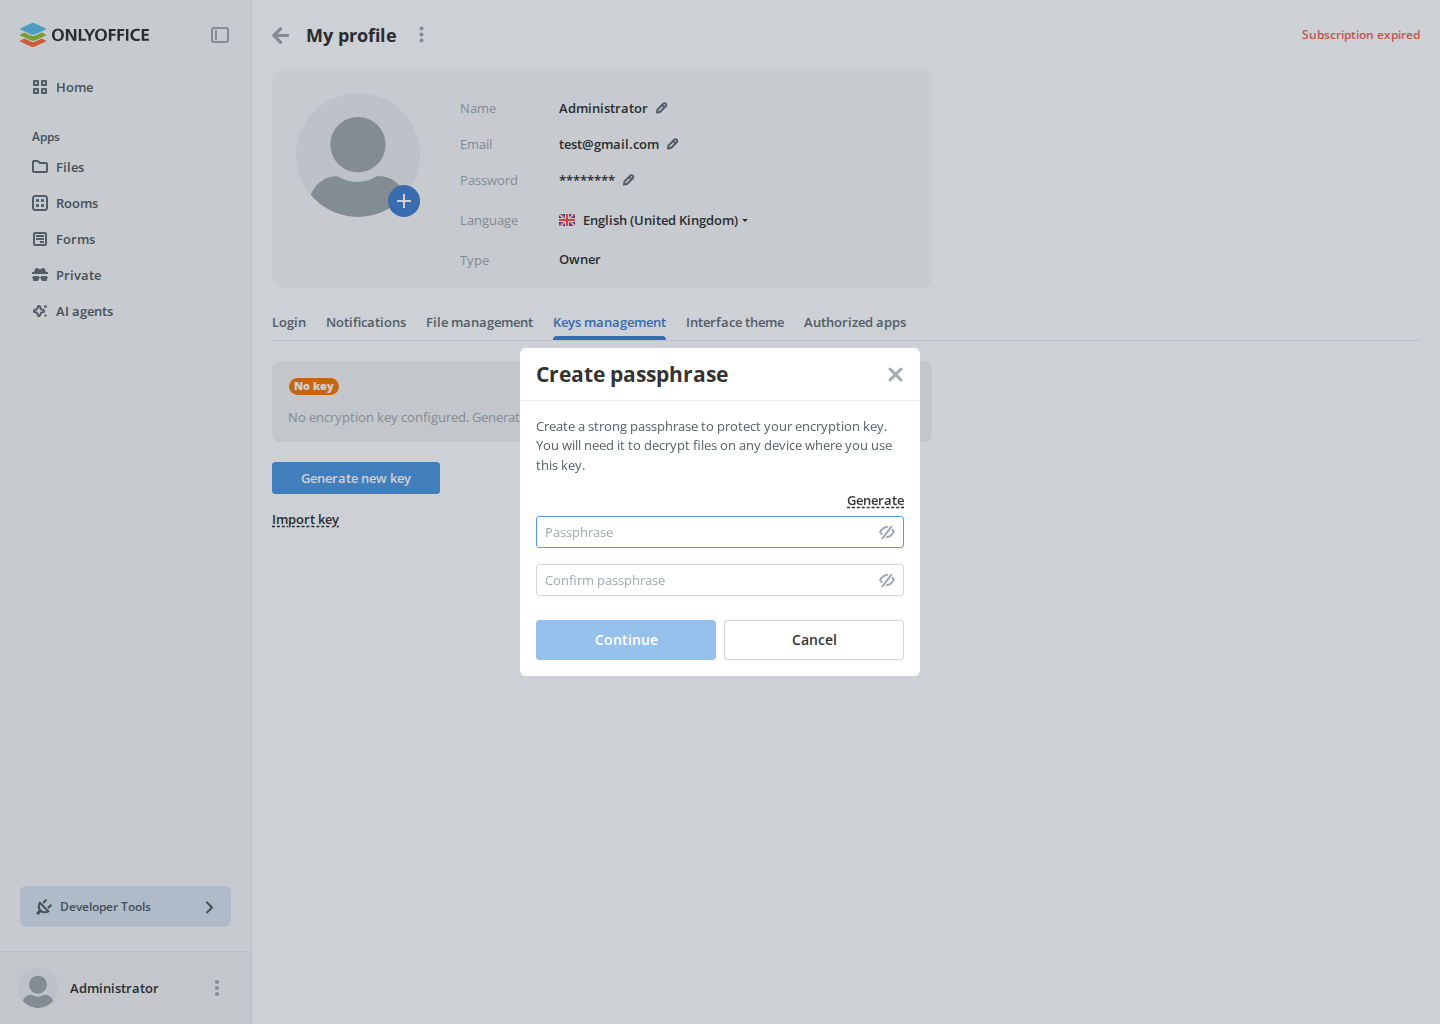
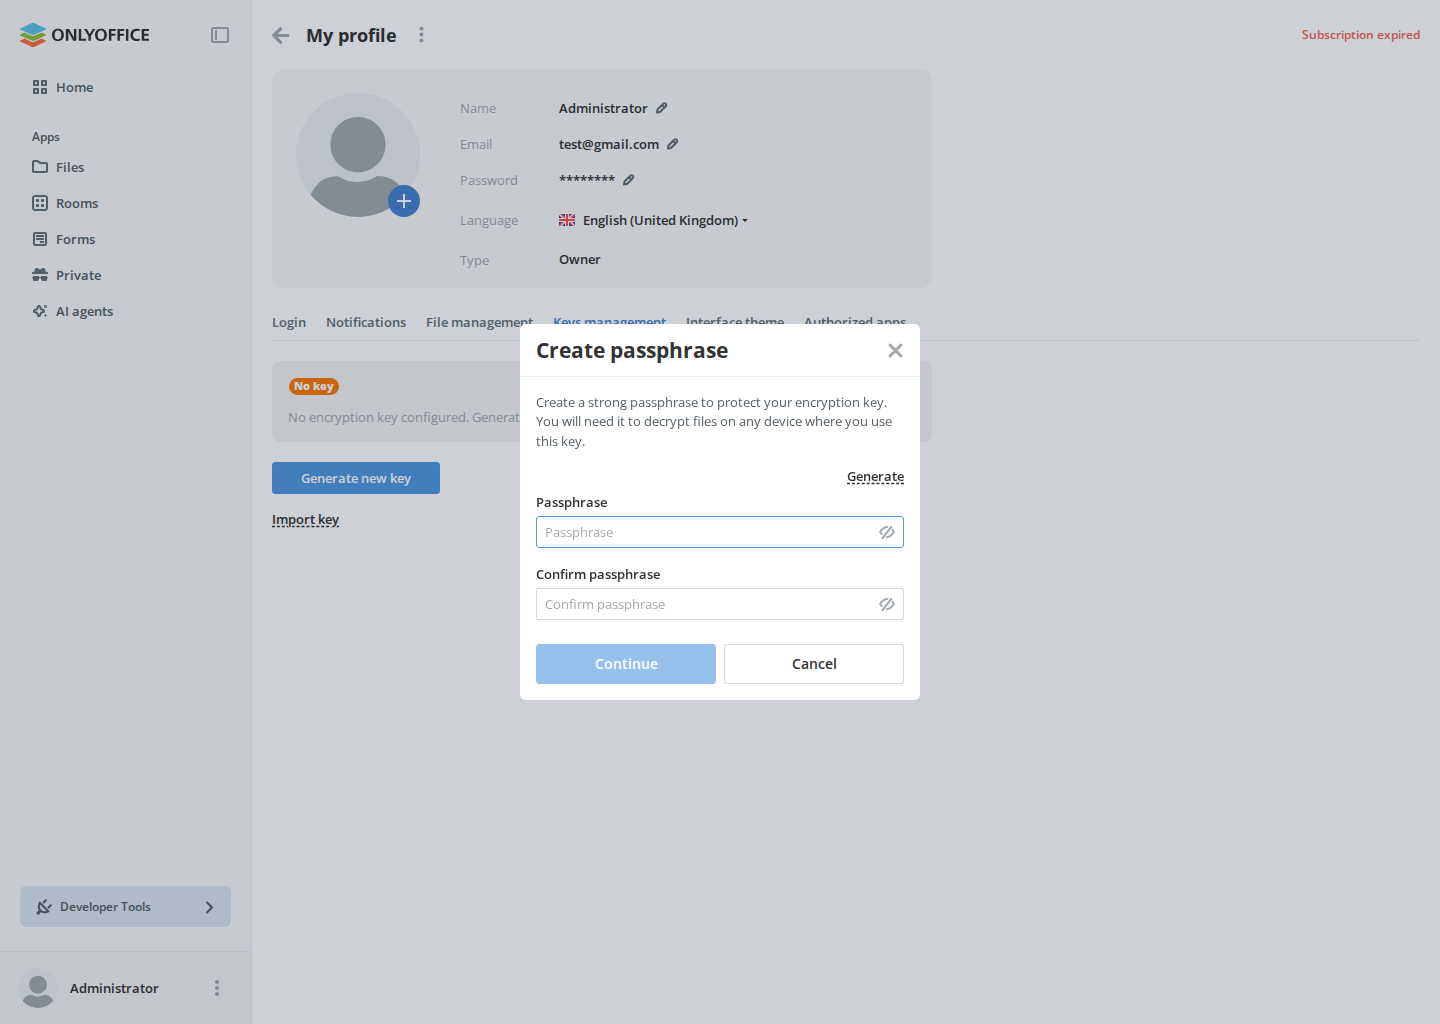
E2E: Private rooms: locate the passphrase fields by their labels
The keys-management, key-flow and TOFU specs and the encryption fixture
find the passphrase, confirmation and passphrase-change fields with
getByLabel on their visible labels instead of input[name] and id
selectors. The two passphrase-create baselines are re-recorded in the
container, since the labels changed the dialog's layout. Run in
tests-dev: 19 passed.

OpenSpec: private-rooms-dialog-keyboard-and-focus 3.4

Changed region(s): [[0.3438, 0.3125, 0.6562, 0.5], [0.3438, 0.5312, 0.6562, 0.6875], [0.5938, 0.5625, 0.625, 0.5938]]

diff --git a/packages/client/__tests__/key-flow-edge-cases.spec.ts b/packages/client/__tests__/key-flow-edge-cases.spec.ts
@@ -75,15 +75,11 @@ test.describe("Keys management — edge cases", () => {
     await expect(generateBtn).toBeVisible({ timeout: 15000 });
     await generateBtn.click();
 
-    const passphraseInput = page
-      .locator('input[name="passphrase"], #passphrase input')
-      .first();
+    const passphraseInput = page.getByLabel("Passphrase", { exact: true });
     await expect(passphraseInput).toBeVisible({ timeout: 5000 });
     await passphraseInput.fill(STRONG_PASSPHRASE);
 
-    const confirmInput = page
-      .locator('input[name="confirmPassphrase"], #confirmPassphrase input')
-      .first();
+    const confirmInput = page.getByLabel("Confirm passphrase", { exact: true });
     await confirmInput.fill("different-passphrase-1234");
 
     const continueBtn = page
@@ -116,15 +112,11 @@ test.describe("Keys management — edge cases", () => {
       .getByRole("button", { name: "Generate new key", exact: true })
       .click();
 
-    const passphraseInput = page
-      .locator('input[name="passphrase"], #passphrase input')
-      .first();
+    const passphraseInput = page.getByLabel("Passphrase", { exact: true });
     await expect(passphraseInput).toBeVisible({ timeout: 5000 });
     await passphraseInput.fill(STRONG_PASSPHRASE);
 
-    await page
-      .locator('input[name="confirmPassphrase"], #confirmPassphrase input')
-      .first()
+    await page.getByLabel("Confirm passphrase", { exact: true })
       .fill(STRONG_PASSPHRASE);
 
     await page
@@ -185,13 +177,9 @@ test.describe("Keys management — edge cases", () => {
       .getByRole("button", { name: "Generate new key", exact: true })
       .click();
 
-    await page
-      .locator('input[name="passphrase"], #passphrase input')
-      .first()
+    await page.getByLabel("Passphrase", { exact: true })
       .fill(STRONG_PASSPHRASE);
-    await page
-      .locator('input[name="confirmPassphrase"], #confirmPassphrase input')
-      .first()
+    await page.getByLabel("Confirm passphrase", { exact: true })
       .fill(STRONG_PASSPHRASE);
 
     await page
@@ -273,9 +261,7 @@ test.describe("Keys management — edge cases", () => {
       .getByRole("button", { name: "Generate new key", exact: true })
       .click();
 
-    const passphraseInput = page
-      .locator('input[name="passphrase"], #passphrase input')
-      .first();
+    const passphraseInput = page.getByLabel("Passphrase", { exact: true });
     await expect(passphraseInput).toBeVisible({ timeout: 5000 });
     await passphraseInput.fill(STRONG_PASSPHRASE);
 
@@ -312,9 +298,7 @@ test.describe("Keys management — edge cases", () => {
     });
     await generateBtn.click();
 
-    const passphraseInput = page
-      .locator('input[name="passphrase"], #passphrase input')
-      .first();
+    const passphraseInput = page.getByLabel("Passphrase", { exact: true });
     await expect(passphraseInput).toBeVisible({ timeout: 5000 });
     await passphraseInput.fill(STRONG_PASSPHRASE);
 

diff --git a/packages/client/__tests__/keys-management-advanced.spec.ts b/packages/client/__tests__/keys-management-advanced.spec.ts
@@ -125,14 +125,10 @@ test.describe("Keys management — advanced flows", () => {
       .getByRole("button", { name: "Continue", exact: true })
       .click();
 
-    const newPassphraseInput = page
-      .locator('input[name="passphrase"], #passphrase input')
-      .first();
+    const newPassphraseInput = page.getByLabel("Passphrase", { exact: true });
     await expect(newPassphraseInput).toBeVisible({ timeout: 5000 });
     await newPassphraseInput.fill(NEW_PASSPHRASE);
-    await page
-      .locator('input[name="confirmPassphrase"], #confirmPassphrase input')
-      .first()
+    await page.getByLabel("Confirm passphrase", { exact: true })
       .fill(NEW_PASSPHRASE);
 
     const putPromise = page.waitForRequest(
@@ -238,8 +234,7 @@ test.describe("Keys management — advanced flows", () => {
       .getByRole("dialog")
       .filter({ hasText: "Enter passphrase" });
     await expect(verifyDialog).toBeVisible({ timeout: 5000 });
-    await verifyDialog
-      .locator('input[name="passphrase"]')
+    await verifyDialog.getByLabel("Passphrase", { exact: true })
       .fill(KNOWN_PASSPHRASE);
     await verifyDialog
       .getByRole("button", { name: "Continue", exact: true })
@@ -334,12 +329,10 @@ test.describe("Keys management — advanced flows", () => {
     await expect(rotateBtn).toBeVisible({ timeout: 10000 });
     await rotateBtn.click();
 
-    await page
-      .locator('input[name="currentPassphrase"]')
+    await page.getByLabel("Current passphrase", { exact: true })
       .fill(KNOWN_PASSPHRASE);
-    await page.locator('input[name="newPassphrase"]').fill(NEW_PASSPHRASE);
-    await page
-      .locator('input[name="confirmNewPassphrase"]')
+    await page.getByLabel("New passphrase", { exact: true }).fill(NEW_PASSPHRASE);
+    await page.getByLabel("Confirm new passphrase", { exact: true })
       .fill(NEW_PASSPHRASE);
 
     const putPromise = page.waitForRequest(
@@ -459,8 +452,7 @@ test.describe("Keys management — advanced flows", () => {
     await upload("first.txt");
     await expect(prompt).toBeVisible({ timeout: 15000 });
     await prompt
-      .locator('input[name="passphrase"], #passphrase input')
-      .first()
+      .getByLabel("Passphrase", { exact: true })
       .fill(passphrase);
     await prompt.getByText("Don't ask again on this device").click();
     await prompt.getByRole("button", { name: "Confirm" }).click();

diff --git a/packages/client/__tests__/keys-management.spec.ts b/packages/client/__tests__/keys-management.spec.ts
@@ -79,17 +79,12 @@ test.describe("Profile > Keys Management", () => {
     await expect(generateBtn).toBeVisible({ timeout: 15_000 });
     await generateBtn.click();
 
-    // PasswordInput passes id straight to the underlying InputBlock.
-    const passphraseInput = page.locator(
-      'input[name="passphrase"], #passphrase input',
-    );
-    await expect(passphraseInput.first()).toBeVisible({ timeout: 5_000 });
-    await passphraseInput.first().fill("Test-Horse-Battery-Staple-99!");
+    const passphraseInput = page.getByLabel("Passphrase", { exact: true });
+    await expect(passphraseInput).toBeVisible({ timeout: 5_000 });
+    await passphraseInput.fill("Test-Horse-Battery-Staple-99!");
 
-    const confirmInput = page.locator(
-      'input[name="confirmPassphrase"], #confirmPassphrase input',
-    );
-    await confirmInput.first().fill("Test-Horse-Battery-Staple-99!");
+    const confirmInput = page.getByLabel("Confirm passphrase", { exact: true });
+    await confirmInput.fill("Test-Horse-Battery-Staple-99!");
 
     const passphraseDialog = page.getByRole("dialog");
     await passphraseDialog

diff --git a/packages/client/__tests__/fixtures/encryption-helpers.ts b/packages/client/__tests__/fixtures/encryption-helpers.ts
@@ -82,15 +82,11 @@ export async function bootstrapEncryption(
   await expect(generateBtn).toBeVisible({ timeout: 15000 });
   await generateBtn.click();
 
-  const passphraseInput = page
-    .locator('input[name="passphrase"], #passphrase input')
-    .first();
+  const passphraseInput = page.getByLabel("Passphrase", { exact: true });
   await expect(passphraseInput).toBeVisible({ timeout: 5000 });
   await passphraseInput.fill(passphrase);
 
-  const confirmInput = page
-    .locator('input[name="confirmPassphrase"], #confirmPassphrase input')
-    .first();
+  const confirmInput = page.getByLabel("Confirm passphrase", { exact: true });
   await confirmInput.fill(passphrase);
 
   await page

diff --git a/packages/client/__tests__/private-room-tofu.spec.ts b/packages/client/__tests__/private-room-tofu.spec.ts
@@ -73,8 +73,7 @@ const unlockIfPrompted = async (page: Page, passphrase: string) => {
     .filter({ hasText: "Enter passphrase" });
   if (await prompt.isVisible().catch(() => false)) {
     await prompt
-      .locator('input[name="passphrase"], #passphrase input')
-      .first()
+      .getByLabel("Passphrase", { exact: true })
       .fill(passphrase);
     await prompt.getByRole("button", { name: "Confirm" }).click();
   }

diff --git a/openspec/changes/private-rooms-dialog-keyboard-and-focus/tasks.md b/openspec/changes/private-rooms-dialog-keyboard-and-focus/tasks.md
@@ -18,7 +18,7 @@
 - [x] 3.1 Give the creation and unlock fields visible labels through `FieldContainer` (`labelText`, `labelFor`, input ids) and drop `labelVisible={false}`; verify by rewriting "Passphrase field" in `packages/shared/dialogs/__tests__/key-dialogs.a11y.test.tsx` to `getByLabelText("Common:Passphrase")` and `getByLabelText("Common:ConfirmPassphrase")`, and `cd common/tests && npx vitest run test/locales.test.js` green
 - [x] 3.2 Give the three passphrase-change fields visible labels; verify with a new test "Passphrase-change fields" in `keys-management/modals/__tests__/keyDialogs.a11y.test.tsx` using `getByLabelText` for Common:CurrentPassphrase, Common:NewPassphrase and Common:ConfirmNewPassphrase
 - [x] 3.3 Add the hidden live region fed by `useLiveRegionText` to the passphrase, passphrase-change and recovery-phrase-input dialogs, with the error attached to the field by `FieldContainer`; verify with tests "Mismatched confirmation", "Wrong passphrase announced", "Error cleared" in `PassphraseModal.test.tsx` and "Wrong recovery phrase" in a new `packages/shared/dialogs/key-recovery/__tests__/RecoveryPhraseInputModal.test.tsx` (`aria-invalid`, `aria-describedby` resolving to the message, region text once)
-- [ ] 3.4 Move the E2E dialog locators from placeholders and `input[name]` to `getByLabel` in `keys-management.spec.ts`, `keys-management-advanced.spec.ts`, `key-flow-edge-cases.spec.ts` and `private-room-tofu.spec.ts`; verify with those specs under Docker
+- [x] 3.4 Move the E2E dialog locators from placeholders and `input[name]` to `getByLabel` in `keys-management.spec.ts`, `keys-management-advanced.spec.ts`, `key-flow-edge-cases.spec.ts` and `private-room-tofu.spec.ts`; verify with those specs under Docker
 
 ## 4. Focus and Tab order
 
